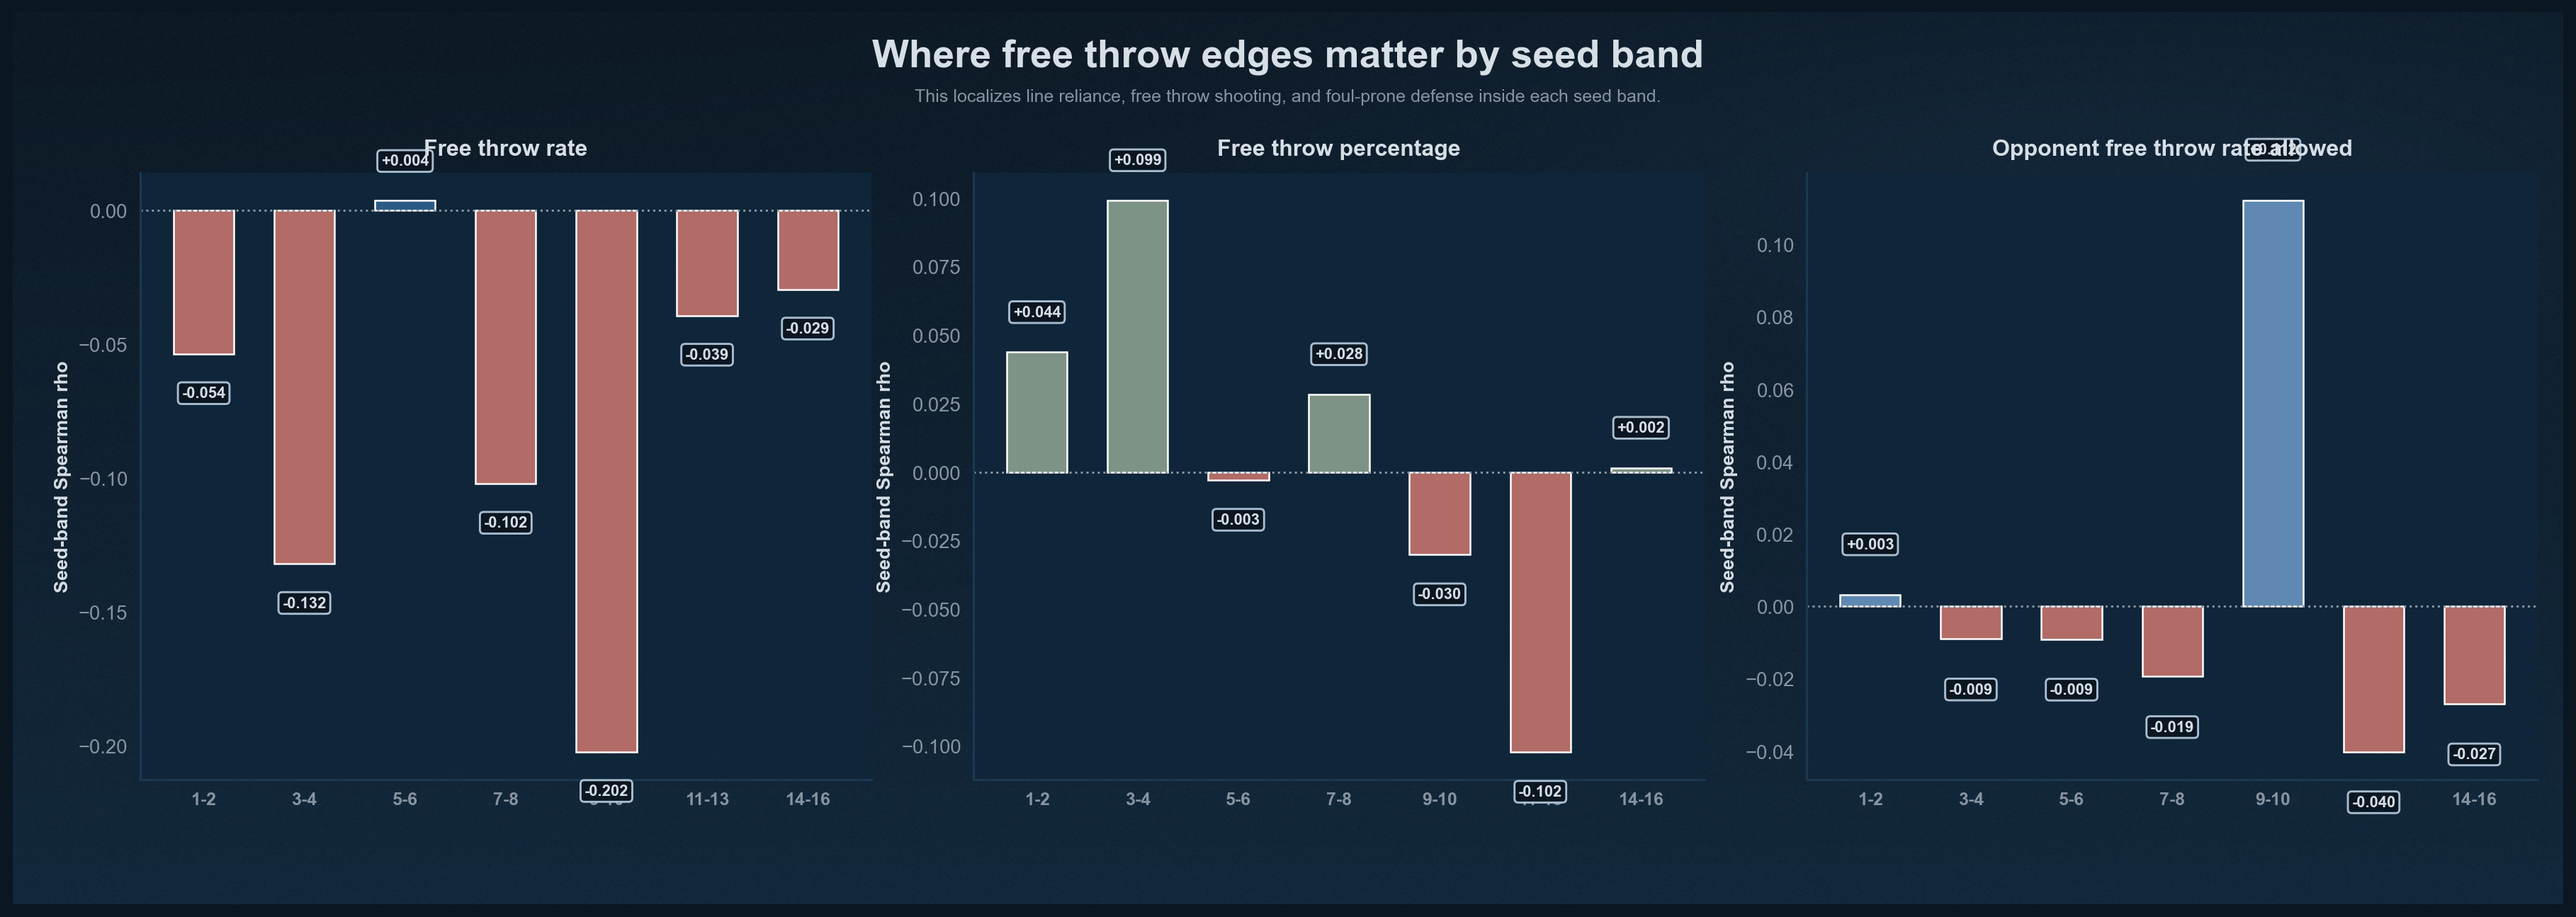
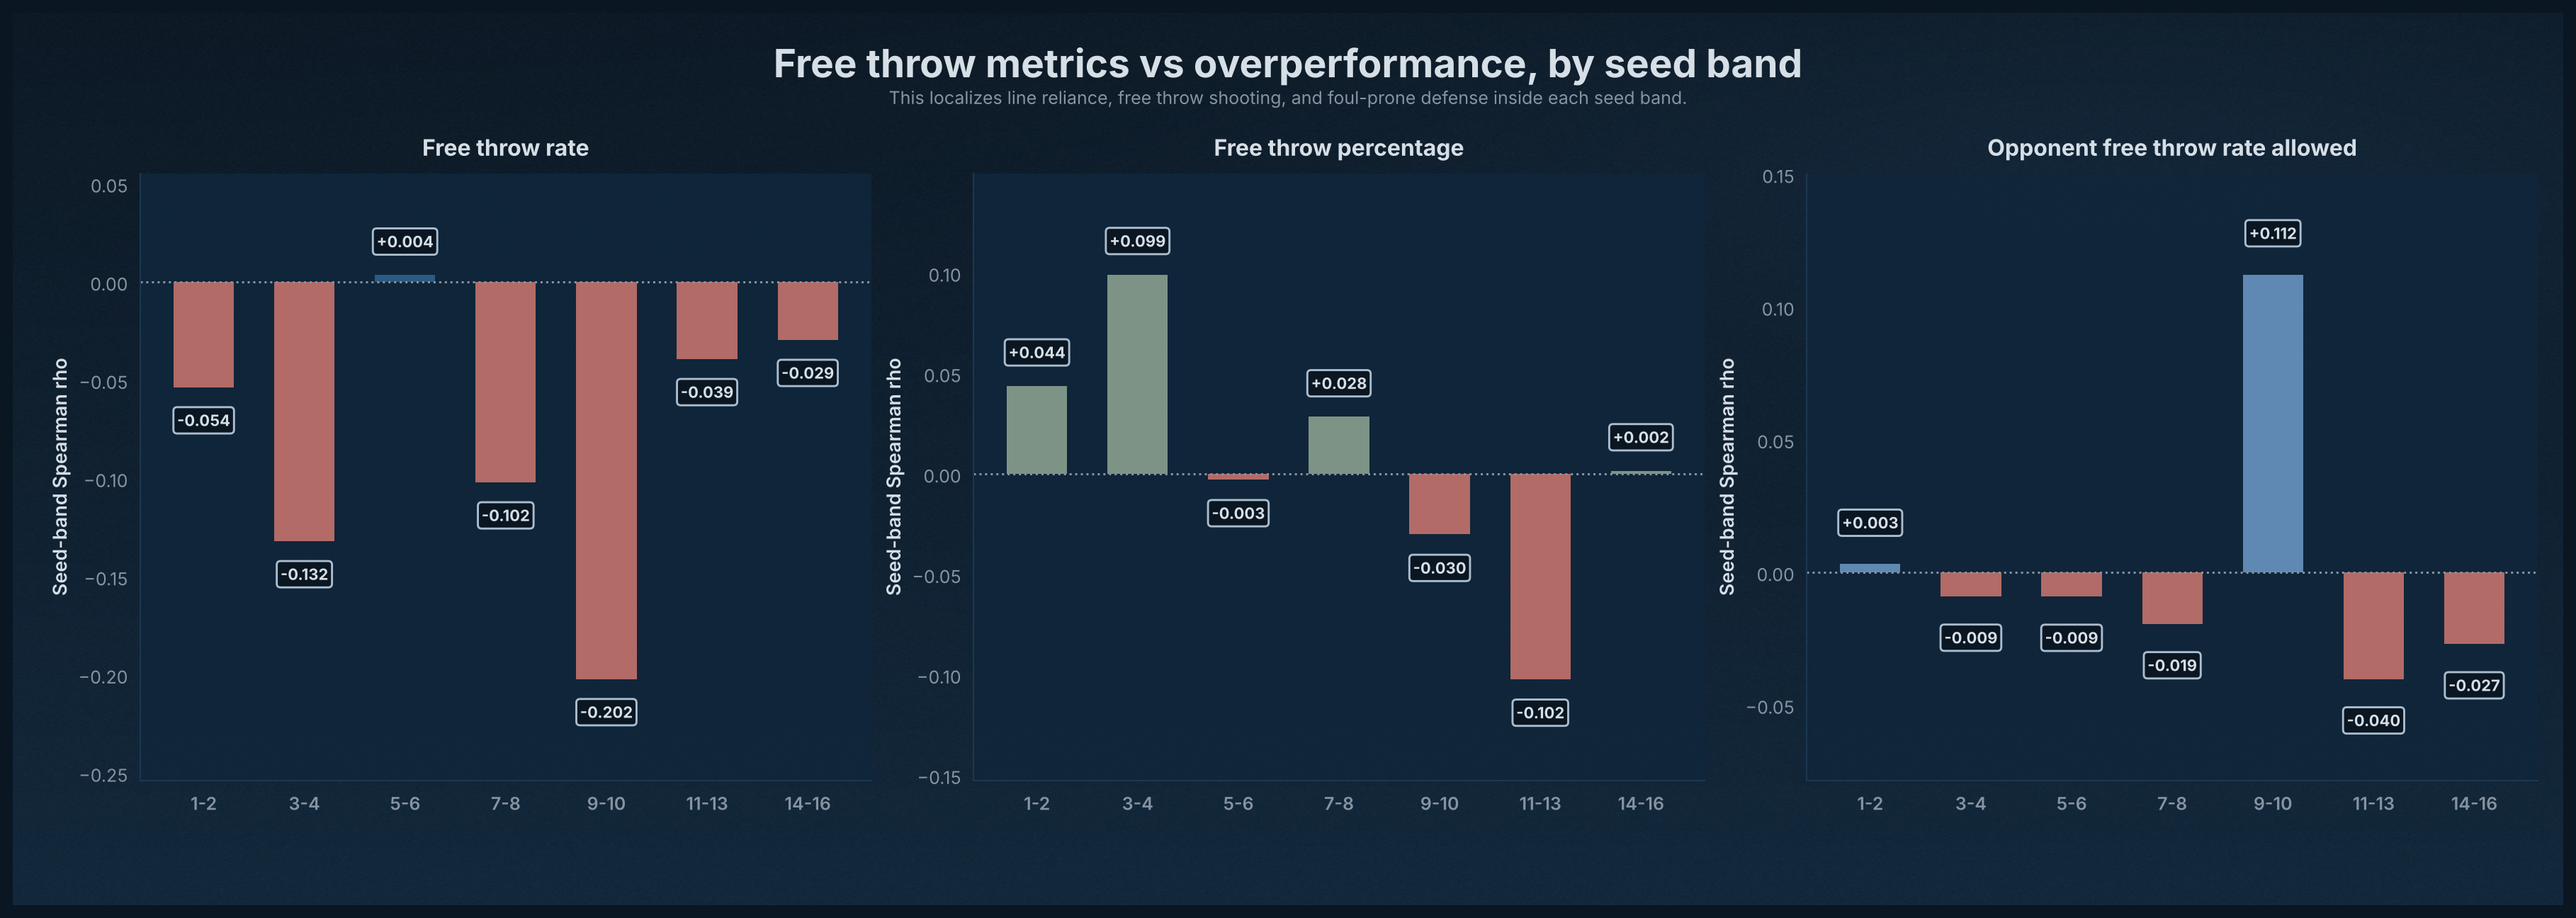
fix(topics): describe the seed-band charts without causal wording
The seed-band figure titles said where each metric "matters" and the
turnovers subtitles said positive bars mean the metric "helps", although
no band cell survives the pooled multiple-comparison check. Titles now
name what is plotted, the summary headings follow, and the bar axes get
enough headroom that value labels no longer sit on the panel titles or
tick labels.

diff --git a/scripts/turnovers_analysis_02_04.py b/scripts/turnovers_analysis_02_04.py
@@ -120,7 +120,7 @@ def plot_analysis_02(tournament_df: pd.DataFrame, over_df: pd.DataFrame, summary
     set_project_theme()
     fig, axes = plt.subplots(2, 2, figsize=(18.0, 11.4), constrained_layout=False)
     apply_report_background(fig, axes.flatten())
-    fig.subplots_adjust(top=0.84, bottom=0.11, left=0.06, right=0.97, wspace=0.12, hspace=0.20)
+    fig.subplots_adjust(top=0.84, bottom=0.11, left=0.06, right=0.97, wspace=0.12, hspace=0.34)
 
     y_seed = over_df["overperformance"].to_numpy(dtype=float)
     panel_specs = [
@@ -191,7 +191,7 @@ def plot_analysis_02(tournament_df: pd.DataFrame, over_df: pd.DataFrame, summary
     axes[1, 1].text(
         0.97,
         0.08,
-        "Positive x = better than your seed baseline on that metric",
+        "Positive x = better than the seed-line baseline on that metric",
         transform=axes[1, 1].transAxes,
         ha="right",
         va="bottom",
@@ -415,6 +415,10 @@ def plot_analysis_04(table: pd.DataFrame, out_path: Path) -> None:
         ax.tick_params(axis="x", length=0, pad=6)
         ax.tick_params(axis="y", length=0, pad=7)
         ax.invert_yaxis()
+        # Pad both ends so value labels on the outermost bars stay inside the panel.
+        low, high = min(float(values.min()), 0.0), max(float(values.max()), 0.0)
+        pad = 0.18 * (high - low)
+        ax.set_xlim(low - pad, high + pad)
         for yi, xi in zip(y, values):
             ax.text(
                 xi + (0.006 if xi >= 0 else -0.006),
@@ -428,7 +432,7 @@ def plot_analysis_04(table: pd.DataFrame, out_path: Path) -> None:
             )
 
     fig.suptitle("Turnover-overperformance relationship by seed band", fontsize=22, fontweight="bold", y=0.97)
-    fig.text(0.5, 0.90, "Each bar is the within-seed-band Spearman relationship with overperformance. Positive means the metric helps inside that band.", ha="center", va="center", fontsize=10.0, color=PROJECT_PALETTE["steel"])
+    fig.text(0.5, 0.90, "Each bar is the within-seed-band Spearman relationship with overperformance. Positive means a larger seed-relative edge went with a deeper-than-expected run in that band; no significance test.", ha="center", va="center", fontsize=10.0, color=PROJECT_PALETTE["steel"])
     out_path.parent.mkdir(parents=True, exist_ok=True)
     fig.savefig(out_path, dpi=220, bbox_inches="tight")
     plt.close(fig)
@@ -465,6 +469,10 @@ def plot_analysis_04_blocks(table: pd.DataFrame, out_path: Path) -> None:
         ax.tick_params(axis="x", length=0, pad=6)
         ax.tick_params(axis="y", length=0, pad=7)
         ax.invert_yaxis()
+        # Pad both ends so value labels on the outermost bars stay inside the panel.
+        low, high = min(float(values.min()), 0.0), max(float(values.max()), 0.0)
+        pad = 0.18 * (high - low)
+        ax.set_xlim(low - pad, high + pad)
         for yi, xi in zip(y, values):
             ax.text(
                 xi + (0.006 if xi >= 0 else -0.006),
@@ -478,7 +486,7 @@ def plot_analysis_04_blocks(table: pd.DataFrame, out_path: Path) -> None:
             )
 
     fig.suptitle("Block-overperformance relationship by seed band", fontsize=22, fontweight="bold", y=0.97)
-    fig.text(0.5, 0.90, "Each bar is the within-seed-band Spearman relationship with overperformance. Positive means the block metric helps inside that band.", ha="center", va="center", fontsize=10.0, color=PROJECT_PALETTE["steel"])
+    fig.text(0.5, 0.90, "Each bar is the within-seed-band Spearman relationship with overperformance. Positive means a larger seed-relative edge went with a deeper-than-expected run in that band; no significance test.", ha="center", va="center", fontsize=10.0, color=PROJECT_PALETTE["steel"])
     out_path.parent.mkdir(parents=True, exist_ok=True)
     fig.savefig(out_path, dpi=220, bbox_inches="tight")
     plt.close(fig)
@@ -528,7 +536,7 @@ def write_summary_04(table: pd.DataFrame, out_path: Path) -> None:
     strongest_tor = table.iloc[table["tor_seed_band_rho"].idxmax()]
     strongest_tord = table.iloc[table["tord_seed_band_rho"].idxmax()]
     lines = [
-        "# Turnovers Analysis 4: Where Turnovers Matter by Seed Band",
+        "# Turnovers Analysis 4: Turnover Metrics by Seed Band",
         "",
         f"- Strongest TOR seed band: `{strongest_tor['seed_group']}` at `{strongest_tor['tor_seed_band_rho']:+.3f}`.",
         f"- Strongest TORD seed band: `{strongest_tord['seed_group']}` at `{strongest_tord['tord_seed_band_rho']:+.3f}`.",
@@ -545,7 +553,7 @@ def write_summary_04_blocks(table: pd.DataFrame, out_path: Path) -> None:
     strongest_blk = table.iloc[table["blk_pct_seed_band_rho"].idxmax()]
     strongest_blked = table.iloc[table["blked_pct_seed_band_rho"].idxmax()]
     lines = [
-        "# Turnovers Analysis 4b: Where Blocks Matter by Seed Band",
+        "# Turnovers Analysis 4b: Block Metrics by Seed Band",
         "",
         f"- Strongest BLK% seed band: `{strongest_blk['seed_group']}` at `{strongest_blk['blk_pct_seed_band_rho']:+.3f}`.",
         f"- Strongest BLKED% seed band: `{strongest_blked['seed_group']}` at `{strongest_blked['blked_pct_seed_band_rho']:+.3f}`.",

diff --git a/scripts/three_point_analysis_02_04.py b/scripts/three_point_analysis_02_04.py
@@ -337,6 +337,10 @@ def plot_analysis_04(table: pd.DataFrame, over_df: pd.DataFrame, out_path: Path)
         ax.tick_params(axis="x", length=0, pad=6)
         ax.tick_params(axis="y", length=0, pad=7)
         ax.invert_yaxis()
+        # Pad both ends so value labels on the outermost bars stay inside the panel.
+        low, high = min(float(values.min()), 0.0), max(float(values.max()), 0.0)
+        pad = 0.18 * (high - low)
+        ax.set_xlim(low - pad, high + pad)
         for yi, xi in zip(y, values):
             ax.text(
                 xi + (0.006 if xi >= 0 else -0.006),
@@ -363,7 +367,7 @@ def plot_analysis_04(table: pd.DataFrame, over_df: pd.DataFrame, out_path: Path)
                 bbox=styled_box(),
             )
 
-    fig.suptitle("Where three-point edges matter by seed band", fontsize=22, fontweight="bold", y=0.97)
+    fig.suptitle("Three-point metrics vs overperformance, by seed band", fontsize=22, fontweight="bold", y=0.97)
     fig.text(0.5, 0.90, f"Modern-era view only: seed-band bars use tournament teams from {recent_start}+.", ha="center", va="center", fontsize=10.0, color=PROJECT_PALETTE["steel"])
     out_path.parent.mkdir(parents=True, exist_ok=True)
     fig.savefig(out_path, dpi=220, bbox_inches="tight")
@@ -406,7 +410,7 @@ def write_summary_04(table: pd.DataFrame, out_path: Path) -> None:
         "3P%D": table.sort_values("three_pct_d_seed_band_rho", ascending=False, kind="stable").iloc[0],
     }
     lines = [
-        "# Three-Point Analysis 4: Where It Matters By Seed Band",
+        "# Three-Point Analysis 4: Three-Point Metrics by Seed Band",
         "",
         f"- Strongest `3PRATE` seed band: `{strongest['3PRATE']['seed_group']}` at `{strongest['3PRATE']['three_prate_seed_band_rho']:+.3f}`.",
         f"- Strongest `3P%` seed band: `{strongest['3P%']['seed_group']}` at `{strongest['3P%']['three_pct_seed_band_rho']:+.3f}`.",

diff --git a/scripts/size_analysis_02_04.py b/scripts/size_analysis_02_04.py
@@ -65,7 +65,7 @@ def write_analysis_02_summary(summary_table: pd.DataFrame, primary_metric: str, 
 
 def write_analysis_04_summary(seed_table: pd.DataFrame, primary_metric: str, out_path: Path) -> None:
     rho_column = f"{metric_slug(primary_metric)}_rho"; strongest = seed_table.loc[seed_table[rho_column].idxmax()]; weakest = seed_table.loc[seed_table[rho_column].idxmin()]; positive_groups = seed_table.loc[seed_table[rho_column] > 0, "seed_group"].astype(str).tolist(); positives = ', '.join([f'`{v}`' for v in positive_groups]) if positive_groups else '`none`'
-    lines = ["# Size Analysis 4: Where Size Matters by Seed Band", "", f"- Metric used here: `{primary_metric}` (`{metric_label(primary_metric)}`).", f"- Strongest seed band: `{strongest['seed_group']}` at `{strongest[rho_column]:+.3f}`.", f"- Weakest seed band: `{weakest['seed_group']}` at `{weakest[rho_column]:+.3f}`.", f"- Positive seed bands: {positives}.", f"- Band rhos run from `{weakest[rho_column]:+.3f}` to `{strongest[rho_column]:+.3f}`; these are descriptive with no significance test.", "", "## Table", "", seed_table.round(3).to_markdown(index=False)]
+    lines = ["# Size Analysis 4: Size vs Finish by Seed Band", "", f"- Metric used here: `{primary_metric}` (`{metric_label(primary_metric)}`).", f"- Strongest seed band: `{strongest['seed_group']}` at `{strongest[rho_column]:+.3f}`.", f"- Weakest seed band: `{weakest['seed_group']}` at `{weakest[rho_column]:+.3f}`.", f"- Positive seed bands: {positives}.", f"- Band rhos run from `{weakest[rho_column]:+.3f}` to `{strongest[rho_column]:+.3f}`; these are descriptive with no significance test.", "", "## Table", "", seed_table.round(3).to_markdown(index=False)]
     out_path.write_text("\n".join(lines), encoding="utf-8")
 
 def main() -> int:

diff --git a/scripts/tempo_analysis_02_04.py b/scripts/tempo_analysis_02_04.py
@@ -235,6 +235,10 @@ def plot_seed_group(table: pd.DataFrame, out_path: Path) -> None:
     for ax, (column, title, color) in zip(axes, panel_specs):
         values = table[column].to_numpy(dtype=float)
         bars = ax.bar(x, values, width=0.60, color=[color if value >= 0 else NEGATIVE for value in values])
+        # Headroom at both ends keeps the value labels off the panel title and the tick labels.
+        low, high = min(float(values.min()), 0.0), max(float(values.max()), 0.0)
+        pad = 0.25 * (high - low)
+        ax.set_ylim(low - pad, high + pad)
         ax.axhline(0, color=SECONDARY, linestyle=":", linewidth=1.2)
         ax.set_xticks(x)
         ax.set_xticklabels(table["seed_group"].tolist(), fontsize=10.0, fontweight="semibold")
@@ -259,7 +263,7 @@ def plot_seed_group(table: pd.DataFrame, out_path: Path) -> None:
                 bbox=styled_box(),
             )
 
-    fig.suptitle("Where tempo matters by seed band", fontsize=22, fontweight="bold", y=0.97)
+    fig.suptitle("Adjusted tempo vs overperformance, by seed band", fontsize=22, fontweight="bold", y=0.97)
     fig.text(
         0.5,
         0.91,

diff --git a/scripts/free_throw_rate_analysis_02_04.py b/scripts/free_throw_rate_analysis_02_04.py
@@ -195,6 +195,10 @@ def plot_seed_group(table: pd.DataFrame, out_path: Path) -> None:
         values = table[f"{slug}_rho"].to_numpy(dtype=float)
         bar_colors = [color if value >= 0 else NEGATIVE for value in values]
         ax.bar(x, values, color=bar_colors, width=0.60)
+        # Headroom at both ends keeps the value labels off the panel title and the tick labels.
+        low, high = min(float(values.min()), 0.0), max(float(values.max()), 0.0)
+        pad = 0.25 * (high - low)
+        ax.set_ylim(low - pad, high + pad)
         ax.axhline(0, color=SECONDARY, linestyle=":", linewidth=1.2)
         ax.set_xticks(x)
         ax.set_xticklabels(table["seed_group"].tolist(), fontsize=10.0, fontweight="semibold")
@@ -218,7 +222,7 @@ def plot_seed_group(table: pd.DataFrame, out_path: Path) -> None:
                 bbox=styled_box(),
             )
 
-    fig.suptitle("Where free throw edges matter by seed band", fontsize=22, fontweight="bold", y=0.97)
+    fig.suptitle("Free throw metrics vs overperformance, by seed band", fontsize=22, fontweight="bold", y=0.97)
     fig.text(
         0.5,
         0.905,

diff --git a/scripts/rebounding_analysis_02_04.py b/scripts/rebounding_analysis_02_04.py
@@ -212,6 +212,10 @@ def plot_seed_group(table: pd.DataFrame, out_path: Path) -> None:
         values = table[column].to_numpy(dtype=float)
         bar_colors = [color if value >= 0 else NEGATIVE for value in values]
         ax.bar(x, values, color=bar_colors, width=0.60)
+        # Headroom at both ends keeps the value labels off the panel title and the tick labels.
+        low, high = min(float(values.min()), 0.0), max(float(values.max()), 0.0)
+        pad = 0.25 * (high - low)
+        ax.set_ylim(low - pad, high + pad)
         ax.axhline(0, color=SECONDARY, linestyle=":", linewidth=1.2)
         ax.set_xticks(x)
         ax.set_xticklabels(table["seed_group"].tolist(), fontsize=10.0, fontweight="semibold")
@@ -235,7 +239,7 @@ def plot_seed_group(table: pd.DataFrame, out_path: Path) -> None:
                 bbox=styled_box(),
             )
 
-    fig.suptitle("Where rebounding matters by seed band", fontsize=22, fontweight="bold", y=0.97)
+    fig.suptitle("Rebounding vs overperformance, by seed band", fontsize=22, fontweight="bold", y=0.97)
     fig.text(
         0.5,
         0.905,

diff --git a/reports/three_point_vs_finish_by_seed_group_summary.md b/reports/three_point_vs_finish_by_seed_group_summary.md
@@ -1,4 +1,4 @@
-# Three-Point Analysis 4: Where It Matters By Seed Band
+# Three-Point Analysis 4: Three-Point Metrics by Seed Band
 
 - Strongest `3PRATE` seed band: `5-6` at `+0.135`.
 - Strongest `3P%` seed band: `7-8` at `+0.141`.

diff --git a/reports/turnovers_blocks_vs_finish_by_seed_group_summary.md b/reports/turnovers_blocks_vs_finish_by_seed_group_summary.md
@@ -1,4 +1,4 @@
-# Turnovers Analysis 4b: Where Blocks Matter by Seed Band
+# Turnovers Analysis 4b: Block Metrics by Seed Band
 
 - Strongest BLK% seed band: `14-16` at `+0.071`.
 - Strongest BLKED% seed band: `9-10` at `+0.168`.

diff --git a/reports/turnovers_vs_finish_by_seed_group_summary.md b/reports/turnovers_vs_finish_by_seed_group_summary.md
@@ -1,4 +1,4 @@
-# Turnovers Analysis 4: Where Turnovers Matter by Seed Band
+# Turnovers Analysis 4: Turnover Metrics by Seed Band
 
 - Strongest TOR seed band: `7-8` at `+0.184`.
 - Strongest TORD seed band: `11-13` at `+0.125`.

diff --git a/reports/size_vs_finish_by_seed_group_summary.md b/reports/size_vs_finish_by_seed_group_summary.md
@@ -1,4 +1,4 @@
-# Size Analysis 4: Where Size Matters by Seed Band
+# Size Analysis 4: Size vs Finish by Seed Band
 
 - Metric used here: `EFFHGT` (`Effective height`).
 - Strongest seed band: `1-2` at `+0.108`.
